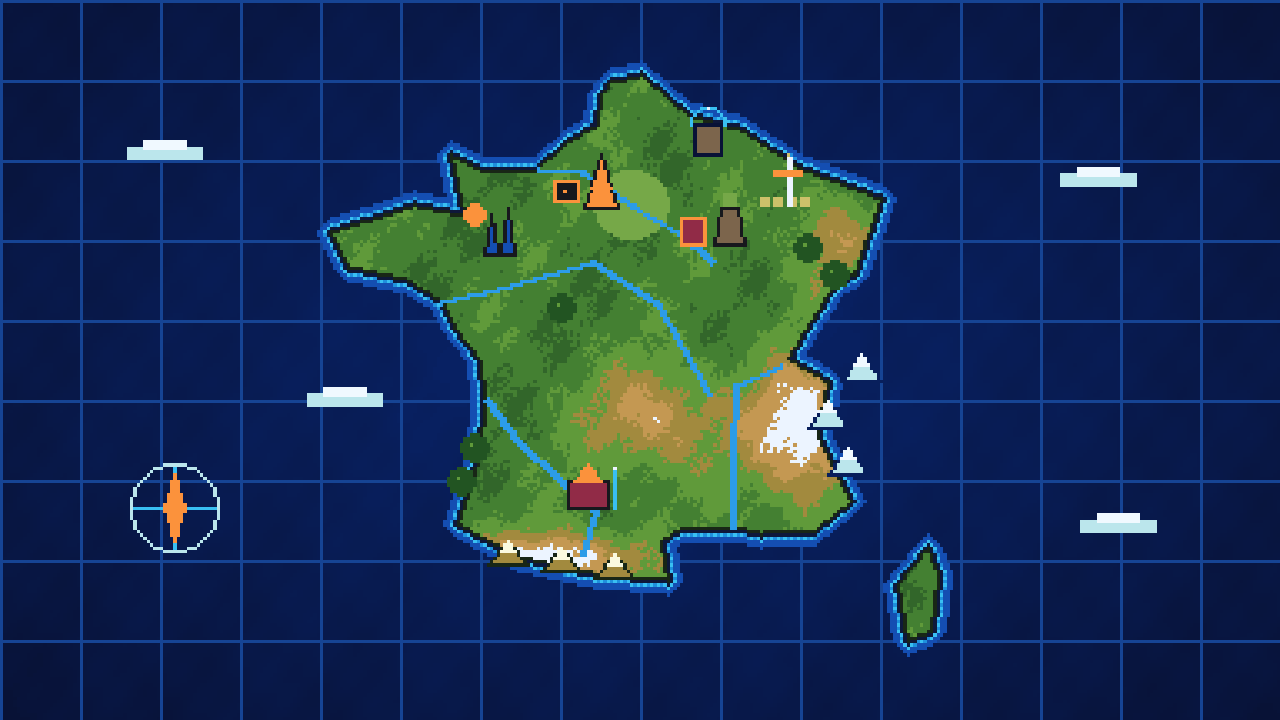
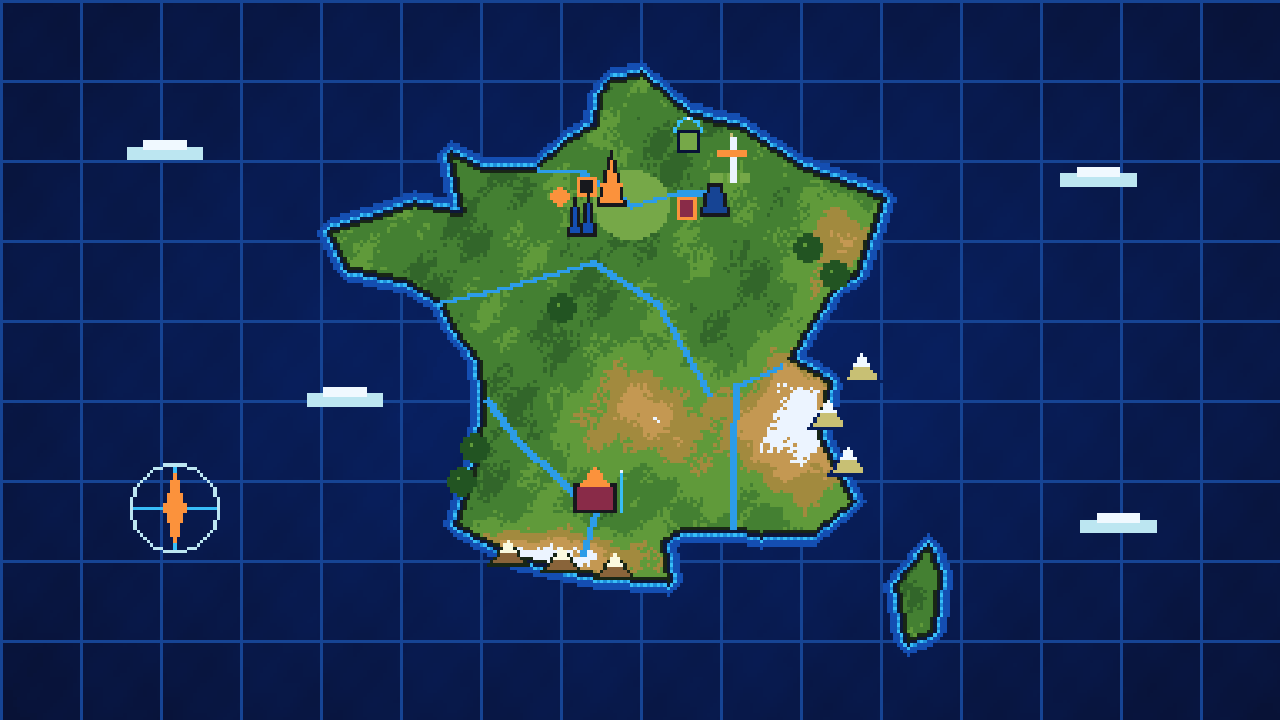
Repositionne les 6 villes à leurs vraies coordonnées GPS sur la carte de France

diff --git a/js/data.js b/js/data.js
@@ -9,8 +9,8 @@ export const FIGHTERS = {
     region: 'Picardie · Région Château-Thierry',
     landmark: 'Donjon & Centrale Nucléaire',
     shortDesc: 'Blindé, puissant, cornes dorées légendaires de Picardie',
-    mapPos: { x: 690, y: 243 },
-    labelOffset: { dx: 16, dy: 24, align: 'left' },
+    mapPos: { x: 677, y: 190 },
+    labelOffset: { dx: 14, dy: 20, align: 'left' },
     color: '#ef4444',
     accent: '#fbbf24',
     speed: 5.6,
@@ -37,8 +37,8 @@ export const FIGHTERS = {
     region: 'Picardie · Région Laon',
     landmark: 'Citadelle Cyber-Radar',
     shortDesc: 'Colosse cybernétique de Laon équipé d’un canon à plasma orbital',
-    mapPos: { x: 707, y: 153 },
-    labelOffset: { dx: 0, dy: -22, align: 'center' },
+    mapPos: { x: 687, y: 160 },
+    labelOffset: { dx: 0, dy: -16, align: 'center' },
     color: '#38bdf8',
     accent: '#e2e8f0',
     speed: 6.0,
@@ -65,8 +65,8 @@ export const FIGHTERS = {
     region: 'Pays du Champagne · Reims',
     landmark: 'Vignes du Champagne',
     shortDesc: 'Félin berserker de Reims armé d’une grande épée enflammée',
-    mapPos: { x: 787, y: 203 },
-    labelOffset: { dx: 18, dy: -6, align: 'left' },
+    mapPos: { x: 703, y: 180 },
+    labelOffset: { dx: 16, dy: -2, align: 'left' },
     color: '#f97316',
     accent: '#ef4444',
     speed: 7.2,
@@ -94,8 +94,8 @@ export const FIGHTERS = {
     region: 'Île-de-France · Paris',
     landmark: 'Tour Eiffel & Route 66',
     shortDesc: 'Le motard parisien et son adorable Golden Retriever Sushi très gentil',
-    mapPos: { x: 600, y: 207 },
-    labelOffset: { dx: -16, dy: -18, align: 'right' },
+    mapPos: { x: 630, y: 203 },
+    labelOffset: { dx: -14, dy: -10, align: 'right' },
     color: '#facc15',
     accent: '#f472b6',
     speed: 6.8,
@@ -122,8 +122,8 @@ export const FIGHTERS = {
     region: 'Eure-et-Loir · Chartres',
     landmark: 'Cathédrale & Lune Hibou',
     shortDesc: 'Gardien nocturne de Chartres aux serres dorées fendant la nuit',
-    mapPos: { x: 493, y: 253 },
-    labelOffset: { dx: -16, dy: 22, align: 'right' },
+    mapPos: { x: 597, y: 227 },
+    labelOffset: { dx: -14, dy: 16, align: 'right' },
     color: '#eab308',
     accent: '#818cf8',
     speed: 7.4,
@@ -150,8 +150,8 @@ export const FIGHTERS = {
     region: 'Occitanie · Toulouse',
     landmark: 'Capitole Rose & Bobine Tesla',
     shortDesc: 'Combattant atomique de Toulouse — se déguise en lapin pour attirer les méchants !',
-    mapPos: { x: 587, y: 507 },
-    labelOffset: { dx: 18, dy: 8, align: 'left' },
+    mapPos: { x: 593, y: 510 },
+    labelOffset: { dx: 16, dy: 6, align: 'left' },
     color: '#22c55e',
     accent: '#38bdf8',
     speed: 6.5,

diff --git a/js/renderer.js b/js/renderer.js
@@ -1266,7 +1266,7 @@ export function drawFranceMapScreen(ctx, state) {
     const isDest = id === f2.id;
     const { x, y } = f.mapPos;
 
-    const r = isStart || isDest ? 9 : 6;
+    const r = isStart || isDest ? 7 : 5;
     ctx.fillStyle = '#09090b';
     ctx.fillRect(x - r - 2, y - r - 2, (r + 2) * 2, (r + 2) * 2);
 

diff --git a/process_assets.py b/process_assets.py
@@ -991,9 +991,9 @@ def build_france_map():
 
     draw = ImageDraw.Draw(img)
 
-    # Grands fleuves stylisés en pixel-art (Seine, Loire, Garonne, Rhône)
+    # Grands fleuves stylisés en pixel-art (Seine/Marne par Paris & Château-Thierry, Loire, Garonne, Rhône)
     rivers = [
-        [geo(0.10, 49.48), geo(1.1, 49.4), geo(2.35, 48.86), geo(3.4, 48.4), geo(4.2, 47.9)],
+        [geo(0.10, 49.48), geo(1.1, 49.4), geo(2.35, 48.86), geo(3.40, 49.05), geo(4.03, 49.05)],
         [geo(-2.15, 47.20), geo(-0.5, 47.45), geo(1.4, 47.9), geo(2.9, 47.2), geo(4.1, 45.6)],
         [geo(-1.15, 45.55), geo(-0.4, 44.8), geo(1.44, 43.60), geo(1.1, 42.9)],
         [geo(4.75, 43.35), geo(4.8, 44.5), geo(4.85, 45.75), geo(5.9, 46.1)],
@@ -1001,48 +1001,46 @@ def build_france_map():
     for rv in rivers:
         draw.line(rv, fill=(44, 156, 232), width=2)
 
-    # --- 6 DÉCORS RÉGIONAUX EN RAPPORT AVEC LE JEU (sur la carte de France) ---
-    # 1) PARIS (DarkMada & Sushi) : Petite Tour Eiffel + Arche Néon Route 66 + Niche dorée
-    pe_x, pe_y = 180, 62  # près de Paris élargi
-    draw.polygon([(pe_x, pe_y - 16), (pe_x - 5, pe_y), (pe_x + 5, pe_y)], fill=(250, 204, 21), outline=(24, 24, 27))
-    draw.line([(pe_x - 3, pe_y - 6), (pe_x + 3, pe_y - 6)], fill=(244, 63, 94), width=1)
-    # Symbole route 66 à gauche de la Tour Eiffel
-    draw.rectangle((pe_x - 14, pe_y - 8, pe_x - 7, pe_y - 2), fill=(24, 24, 27), outline=(244, 63, 94))
-    draw.point((pe_x - 11, pe_y - 5), fill=(250, 204, 21))
+    # --- 6 DÉCORS RÉGIONAUX AUX VRAIES COORDONNÉES GPS SUR LA CARTE DE FRANCE ---
+    # 1) PARIS (DarkMada & Sushi) : 48.8566° N, 2.3522° E -> Tour Eiffel à gauche du point
+    pe_x, pe_y = geo(2.3522, 48.8566)
+    draw.polygon([(pe_x - 6, pe_y - 16), (pe_x - 10, pe_y), (pe_x - 2, pe_y)], fill=(250, 204, 21), outline=(24, 24, 27))
+    draw.line([(pe_x - 9, pe_y - 6), (pe_x - 3, pe_y - 6)], fill=(244, 63, 94), width=1)
+    draw.rectangle((pe_x - 16, pe_y - 8, pe_x - 11, pe_y - 3), fill=(24, 24, 27), outline=(244, 63, 94))
 
-    # 2) CHÂTEAU-THIERRY (GOLDOHRACK) : Château fort + Tours nucléaires vertes bien détachées
-    ct_x, ct_y = 207, 73
-    draw.polygon([(ct_x + 7, ct_y), (ct_x + 9, ct_y - 11), (ct_x + 14, ct_y - 11), (ct_x + 16, ct_y)], fill=(71, 85, 105), outline=(24, 24, 27))
-    draw.rectangle((ct_x + 10, ct_y - 15, ct_x + 13, ct_y - 12), fill=(74, 222, 128))  # panache vert nucléaire
-    draw.rectangle((ct_x - 3, ct_y - 8, ct_x + 4, ct_y), fill=(220, 38, 38), outline=(250, 204, 21))  # donjon rouge Goldohrack
+    # 2) CHÂTEAU-THIERRY (GOLDOHRACK) : 49.0464° N, 3.4030° E -> Donjon + centrale décalés légèrement SE
+    ct_x, ct_y = geo(3.4030, 49.0464)
+    draw.polygon([(ct_x + 7, ct_y + 7), (ct_x + 9, ct_y - 2), (ct_x + 13, ct_y - 2), (ct_x + 15, ct_y + 7)], fill=(71, 85, 105), outline=(24, 24, 27))
+    draw.rectangle((ct_x + 10, ct_y - 5, ct_x + 12, ct_y - 3), fill=(74, 222, 128))
+    draw.rectangle((ct_x, ct_y + 2, ct_x + 5, ct_y + 8), fill=(220, 38, 38), outline=(250, 204, 21))
 
     # Petits bosquets forestiers (Landes & Vosges) pour enrichir le décor naturel
     for fx, fy in [(142, 134), (138, 144), (242, 74), (250, 82), (168, 92)]:
         draw.ellipse((fx - 4, fy - 4, fx + 4, fy + 4), fill=(34, 84, 34))
         draw.point((fx - 1, fy - 1), fill=(74, 154, 62))
 
-    # 3) LAON (M3G4TRONCH3) : Dôme radar Star Citizen cyan sur sa butte
-    ln_x, ln_y = 212, 46
-    draw.rectangle((ln_x - 4, ln_y - 9, ln_x + 4, ln_y), fill=(100, 116, 139), outline=(15, 23, 42))
-    draw.arc((ln_x - 5, ln_y - 14, ln_x + 5, ln_y - 4), 180, 360, fill=(56, 189, 248))
-    draw.point((ln_x, ln_y - 14), fill=(224, 242, 254))
+    # 3) LAON (M3G4TRONCH3) : 49.5641° N, 3.6240° E -> Dôme radar Star Citizen cyan juste au-dessus
+    ln_x, ln_y = geo(3.6240, 49.5641)
+    draw.rectangle((ln_x - 3, ln_y - 9, ln_x + 3, ln_y - 3), fill=(100, 116, 139), outline=(15, 23, 42))
+    draw.arc((ln_x - 4, ln_y - 13, ln_x + 4, ln_y - 5), 180, 360, fill=(56, 189, 248))
+    draw.point((ln_x, ln_y - 13), fill=(224, 242, 254))
 
-    # 4) REIMS (MADCHAT) : Épée de feu géante plantée dans les vignes de Champagne
-    rm_x, rm_y = 236, 61
-    for vx in range(rm_x - 8, rm_x + 8, 4):
+    # 4) REIMS (MADCHAT) : 49.2583° N, 4.0317° E -> Vignes de Champagne & épée de feu à l'est du point
+    rm_x, rm_y = geo(4.0317, 49.2583)
+    for vx in range(rm_x + 3, rm_x + 15, 4):
         draw.rectangle((vx, rm_y - 2, vx + 2, rm_y), fill=(163, 230, 53))
-    draw.line([(rm_x, rm_y - 14), (rm_x, rm_y)], fill=(226, 232, 240), width=2)
-    draw.line([(rm_x - 4, rm_y - 10), (rm_x + 4, rm_y - 10)], fill=(249, 115, 22), width=2)
-    draw.point((rm_x, rm_y - 15), fill=(253, 224, 71))
+    draw.line([(rm_x + 8, rm_y - 13), (rm_x + 8, rm_y)], fill=(226, 232, 240), width=2)
+    draw.line([(rm_x + 4, rm_y - 9), (rm_x + 12, rm_y - 9)], fill=(249, 115, 22), width=2)
+    draw.point((rm_x + 8, rm_y - 14), fill=(253, 224, 71))
 
-    # 5) CHARTRES (LURCK) : Flèches gothiques & lune dorée du hibou
-    ch_x, ch_y = 148, 76
-    draw.polygon([(ch_x - 3, ch_y), (ch_x - 1, ch_y - 12), (ch_x + 1, ch_y)], fill=(109, 40, 217), outline=(24, 24, 27))
-    draw.polygon([(ch_x + 2, ch_y), (ch_x + 4, ch_y - 14), (ch_x + 6, ch_y)], fill=(126, 34, 206), outline=(24, 24, 27))
-    draw.ellipse((ch_x - 9, ch_y - 15, ch_x - 3, ch_y - 9), fill=(250, 204, 21))
+    # 5) CHARTRES (LURCK) : 48.4439° N, 1.4890° E -> Flèches gothiques & lune dorée à gauche du point
+    ch_x, ch_y = geo(1.4890, 48.4439)
+    draw.polygon([(ch_x - 9, ch_y + 2), (ch_x - 7, ch_y - 9), (ch_x - 5, ch_y + 2)], fill=(109, 40, 217), outline=(24, 24, 27))
+    draw.polygon([(ch_x - 5, ch_y + 2), (ch_x - 3, ch_y - 11), (ch_x - 1, ch_y + 2)], fill=(126, 34, 206), outline=(24, 24, 27))
+    draw.ellipse((ch_x - 14, ch_y - 12, ch_x - 9, ch_y - 7), fill=(250, 204, 21))
 
-    # 6) TOULOUSE (KOLL) : Capitole rose & bobine Tesla cyan/lapin
-    tl_x, tl_y = 176, 152
+    # 6) TOULOUSE (KOLL) : 43.6047° N, 1.4442° E -> Capitole rose & bobine Tesla cyan
+    tl_x, tl_y = geo(1.4442, 43.6047)
     draw.rectangle((tl_x - 6, tl_y - 8, tl_x + 6, tl_y), fill=(225, 29, 72), outline=(24, 24, 27))
     draw.polygon([(tl_x - 4, tl_y - 8), (tl_x, tl_y - 13), (tl_x + 4, tl_y - 8)], fill=(251, 146, 60))
     draw.line([(tl_x + 8, tl_y), (tl_x + 8, tl_y - 11)], fill=(56, 189, 248), width=1)
